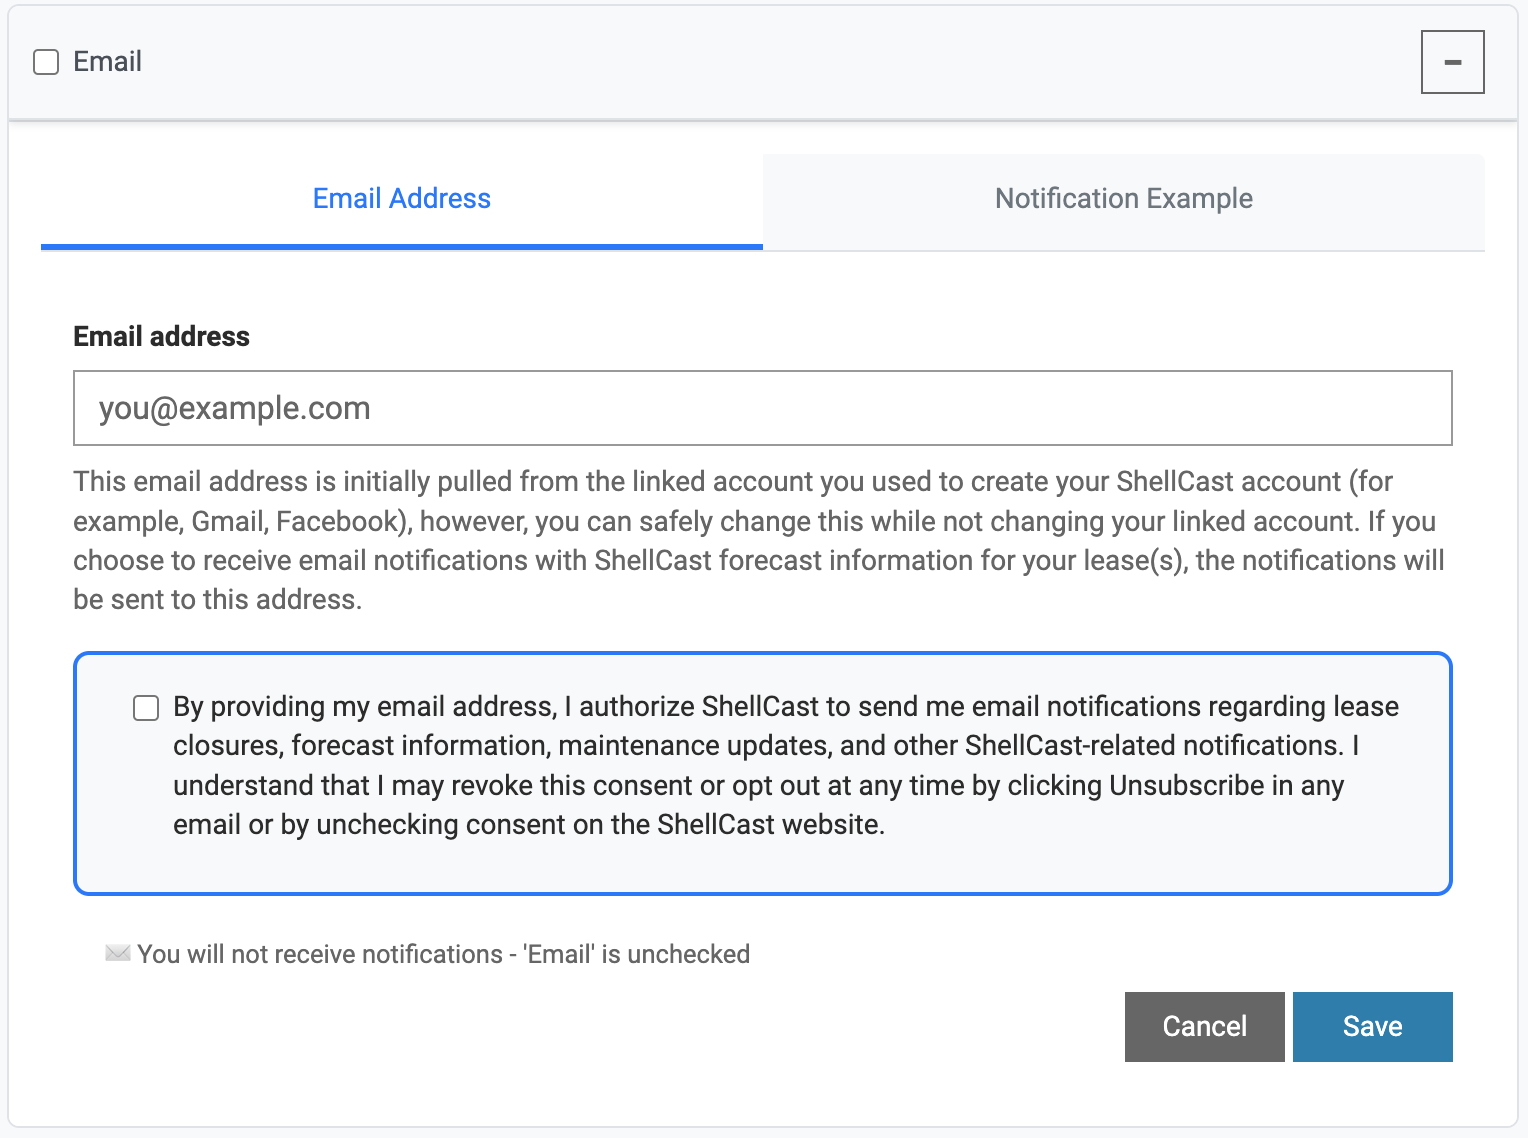
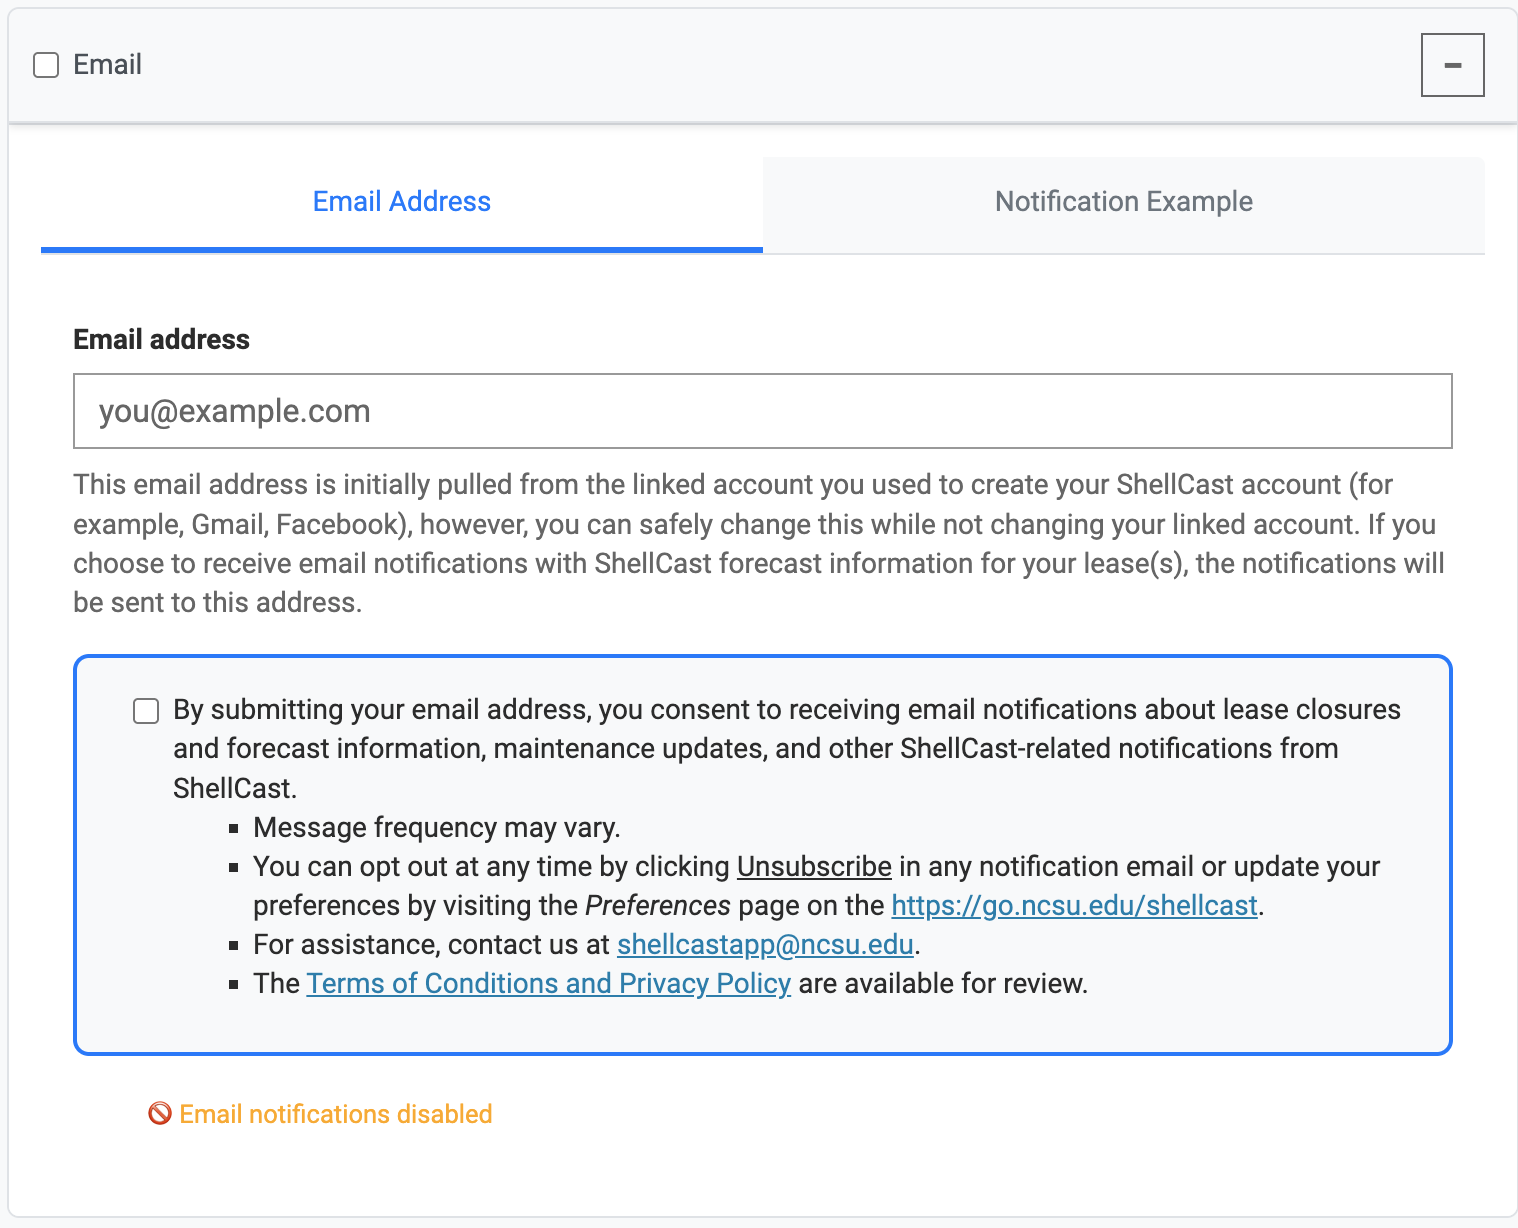
Update NC notification UI: fix image references and update templates
- Update notification preference images
- Fix typo in notification_text_opt-in.png filename
- Update notification-service.html and preferences.html templates
- Remove unused example_email_notification.png

diff --git a/web/shellcast-web-nc/templates/preferences.html b/web/shellcast-web-nc/templates/preferences.html
@@ -84,11 +84,18 @@
                       <div class="form-check consent-checkbox">
                         <input class="form-check-input" type="checkbox" name="email-consent" id="email-consent" disabled>
                         <label class="form-check-label" for="email-consent">
-                          By providing my email address, I authorize ShellCast to send me email notifications 
-                          regarding lease closures, forecast information, maintenance updates, and other 
-                          ShellCast-related notifications. I understand that I may revoke this consent or 
-                          opt out at any time by clicking Unsubscribe in any email or by unchecking consent on 
-                          the ShellCast website.
+                          By submitting your email address, you consent to receiving email notifications 
+                          about lease closures and forecast information, maintenance updates, and other 
+                          ShellCast-related notifications from ShellCast.</br>
+                          <ul class="mb-0">
+                            <li>Message frequency may vary.</li>
+                            <li>You can opt out at any time by clicking <u>Unsubscribe</u> in any notification email or 
+                              update your preferences by visiting the <i>Preferences</i> page on the 
+                              <a href="https://ncsu-shellcast.appspot.com/">https://go.ncsu.edu/shellcast</a>.</li>
+                            <li>For assistance, contact us at <a href="mailto:shellcastapp@ncsu.edu">shellcastapp@ncsu.edu</a>.</li>
+                            <li>The <a href="/notification-service">Terms of Conditions and Privacy Policy</a> 
+                              are available for review.</li>
+                          </ul>
                         </label>
                       </div>
                       <small class="text-danger mt-2 d-block">
@@ -175,10 +182,19 @@
                       <div class="form-check consent-checkbox">
                         <input class="form-check-input" type="checkbox" name="text-consent" id="text-consent">
                         <label class="form-check-label" for="text-consent">
-                          By providing my mobile number, I authorize ShellCast to send me text message notifications 
-                          regarding lease closures and forecast information. Message and data rates may apply. 
-                          I understand that I may revoke this consent or opt out at any time by replying STOP or 
-                          by unchecking consent on the ShellCast website.
+                          By submitting your mobile phone number, you consent to receiving text 
+                          message notifications about lease closures and forecast information from ShellCast.
+                          <ul class="mb-0"> 
+                            <li>Consent is not a condition of purchase.</li>
+                            <li>Message frequency varies.</li>
+                            <li>Message and data rates may apply.</li>
+                            <li>For support, reply <b>HELP</b> or email us at <a href="mailto:shellcastapp@ncsu.edu">shellcastapp@ncsu.edu</a>.</li>
+                            <li>You can opt out at any time by replying <b>STOP</b> or update your preferences by 
+                              visiting the <i>Preferences</i> page on the 
+                              <a href="https://ncsu-shellcast.appspot.com/">https://go.ncsu.edu/shellcast</a>.</li>
+                            <li>The <a href="/notification-service">Terms of Conditions and Privacy Policy</a> 
+                              are available for review.</li>
+                          </ul> 
                         </label>
                       </div>
                     </div>
@@ -191,9 +207,9 @@
                       <label for="example-notification" class="form-label">Text Message Example:</label>
                       <div class="text-bubble" id="example-notification">
                         <p>
-                          One or more of your leases is at risk of closing today, tomorrow or in 2 days. Visit 
-                          <u>go.ncsu.edu/shellcast</u> for details. 
-                          Msg frequency varies. Msg & data rates may apply. Reply HELP for support. Reply STOP to cancel.
+                          ShellCast: One or more your leases is at risk of closing today, tomorrow, or in 2 days. 
+                          Visit <a href="https://ncsu-shellcast.appspot.com/">go.ncsu.edu/shellcast</a> for details. 
+                          Reply STOP to cancel.
                         </p>
                       </div>
                       <small class="form-text text-muted">

diff --git a/web/shellcast-web-nc/templates/notification-service.html b/web/shellcast-web-nc/templates/notification-service.html
@@ -36,7 +36,7 @@
                 email address, confirm consent, and save the settings. Users can opt-in to both options.
             </p>
             <h5>Opt-In Form Examples</h5>
-            <img src="{{ url_for('static', filename='img/preference/notificcation_text_opt-in.png') }}" alt="Text Message Opt-In" style="width: 90%; height: auto;">
+            <img src="{{ url_for('static', filename='img/preference/notification_text_opt-in.png') }}" alt="Text Message Opt-In" style="width: 90%; height: auto;">
             <img src="{{ url_for('static', filename='img/preference/notification_email_opt-in.png') }}" alt="Email Message Opt-In" style="width: 90%; height: auto;">
         </div>
             
@@ -99,8 +99,9 @@
         
         <h5>Help Message Example</h5>
         <p>
-            "Thank you for reaching out. Please emal <a href="mailto:shellcastapp@ncsu.edu"></a> for support.
-            Reply STOP to cancel."
+            "Thank you for reaching out to ShellCast. For support, please email us at 
+            <a href="mailto:shellcastapp@ncsu.edu">shellcastapp@ncsu.edu</a>.
+            Reply STOP to opt out."
         </p>
 
         <h3>5. Privacy Policy</h3>
